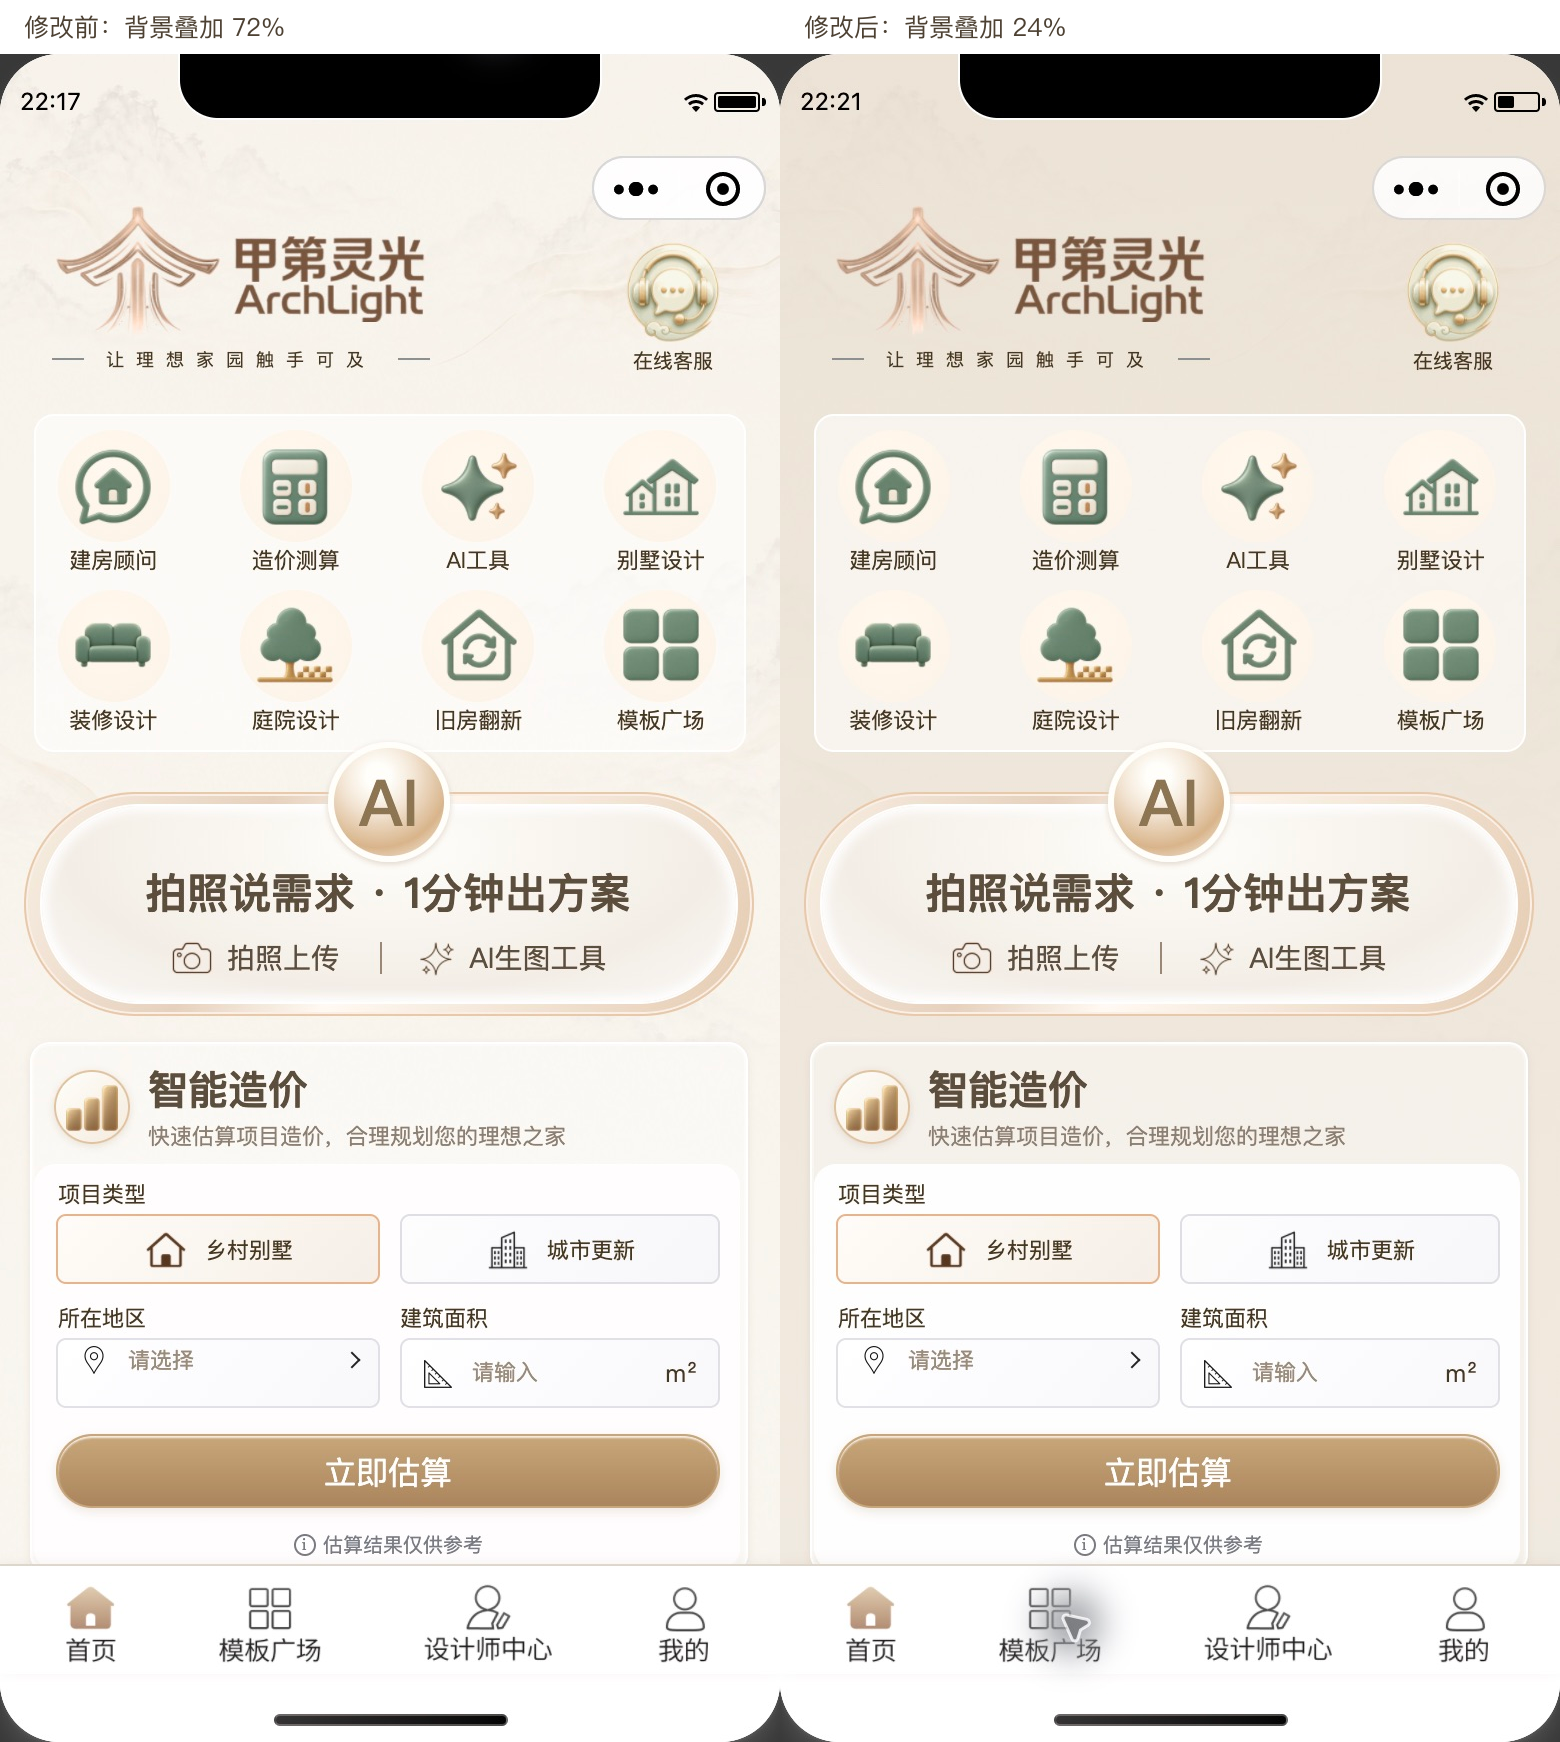
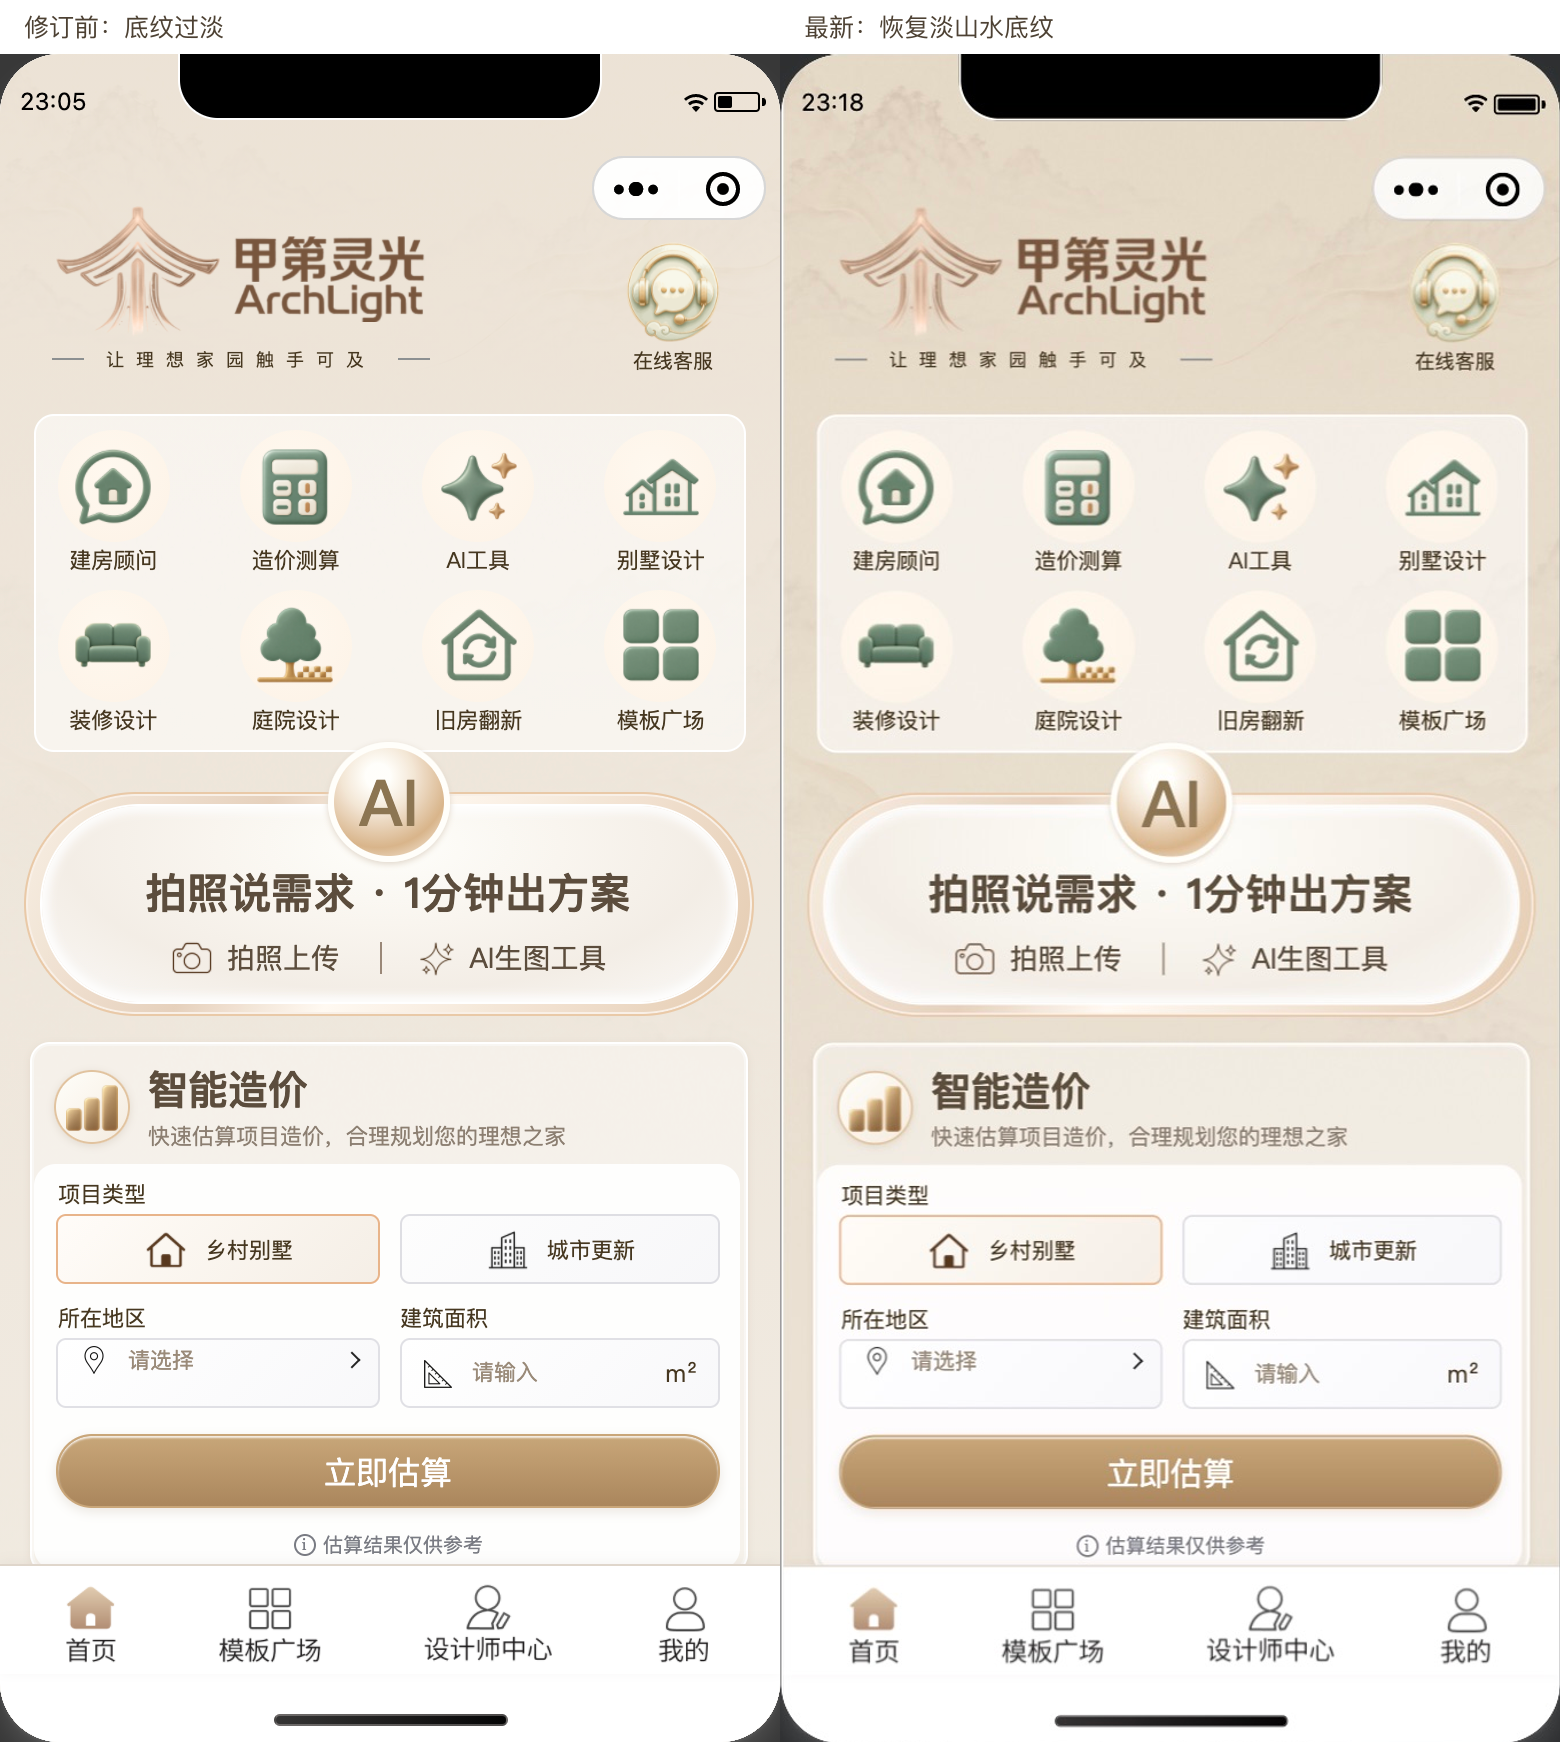
让首页山水底纹可辨认并移除已取消的占位内容
保留暖米色底色和已有高清图标，以乘色混合显示原山水素材。删除签到、邀请好友及建房占位卡片，清除对应样式，并同步当前效果图、运行证据和可回退快照。

Constraint: 当前小程序目录由仓库整体忽略，实际源码已应用并归档到独立交付快照
Rejected: 仅提高米白背景图的常规不透明度 | 会再次冲淡跨页统一的暖米色底色
Tested: 已有首页约束测试先失败后通过；首页造价相关二十七项通过；类型检查及样式编译通过；开发工具游客模式首页零错误且运行树已无取消内容；回退两项测试通过
Tested: 生产依赖审计零漏洞，交付文本扫描未发现密钥；全量八十二项中八十项通过，两个原有客服失败未变化
Not-tested: 正式应用身份及真实设备验收尚未完成
Directive: 山水纹理应清晰可辨但保持淡雅，不以整张叠白冲淡品牌底色
Reversibility: 当前修订前代码与效果图另有备份，应用初始版本可通过带校验的回退脚本恢复

diff --git a/docs/home-reference-20261008/after/miniprogram/pages/index/index.scss b/docs/home-reference-20261008/after/miniprogram/pages/index/index.scss
@@ -1,14 +1,9 @@
 /**index.scss**/
-.building-report-entry {
-  padding: 30rpx; margin: 0 0 32rpx; border: 1rpx solid #cfbda4;
-  border-radius: 24rpx; background: #f9f3e8; color: #71543e;
-  &__title { display: block; font-size: 31rpx; font-weight: 600; line-height: 1.7; }
-  &__copy { display: block; font-size: 24rpx; line-height: 1.8; margin-top: 12rpx; }
-}
 page { overflow: visible; background: #ece4d9; }
 .pages { width: 100vw; min-height: 100vh; background: #ece4d9; overflow-x: hidden; box-sizing: border-box; }
-.home-canvas { position: relative; width: 750rpx; height: 1488.57rpx; color: #473720; font-family: "PingFang SC", sans-serif; background: linear-gradient(180deg, #e6daca, #ece4d9); }
-.home-backdrop { opacity: .24; position: absolute; left: 0; top: 0; width: 100%; height: 100%; }
+.home-canvas { position: relative; isolation: isolate; width: 750rpx; height: 1488.57rpx; color: #473720; font-family: "PingFang SC", sans-serif; background: linear-gradient(180deg, #e6daca, #ece4d9); }
+// 乘色保留暖米色底色，让山水纹理显现，避免米白图片冲淡整页配色。
+.home-backdrop { opacity: .85; mix-blend-mode: multiply; position: absolute; left: 0; top: 0; width: 100%; height: 100%; }
 .home-art-layer { position: absolute; left: 0; top: 105.51rpx; width: 750rpx; height: 1383.06rpx; }
 .home-art-layer > text, .home-art-layer > image, .home-art-layer > view, .home-art-layer > picker { position: absolute; box-sizing: border-box; }
 .brand-symbol { left: 54.51rpx; top: 40.45rpx; width: 158.26rpx; height: 131.89rpx; }
@@ -68,7 +63,6 @@ page { overflow: visible; background: #ece4d9; }
 .quick-estimate::after { border: 0; }
 .info-icon { width: 19rpx; height: 19rpx; border: 1.5rpx solid #787b83; border-radius: 50%; font: 16rpx/19rpx Georgia, serif; text-align: center; }
 .content { position: relative; margin-top: 0; padding: 30rpx 30rpx calc(180rpx + env(safe-area-inset-bottom)); box-sizing: border-box; }
-.home-secondary-actions { display: flex; justify-content: center; gap: 48rpx; margin-bottom: 30rpx; color: #73583f; font-size: 25rpx; }
 
 .case-section {
   margin-bottom: 40rpx;

diff --git a/docs/home-reference-20261008/after/tests/home-smart-service-fixed.test.js b/docs/home-reference-20261008/after/tests/home-smart-service-fixed.test.js
@@ -8,6 +8,6 @@ const hero = markup.slice(markup.indexOf('<view class="home-canvas">'), markup.i
 assert.match(hero, /class="hotspot smart-service-float"[^>]*bindtap="onMascotTap"[^>]*aria-label="在线客服"/);
 assert.doesNotMatch(markup, /smart-service-fixed-layer/);
 assert.match(styles, /\.hotspot\s*{[^}]*position:\s*absolute/);
-assert.match(markup, /pages\/checkin\/checkin\?source=index/);
-assert.match(markup, /pages\/Invitefriends\/Invitefriends\?source=index/);
-console.log('Customer service scrolls with the confirmed hero; checkin and invite remain reachable');
+assert.doesNotMatch(markup, /每日签到|邀请好友|先想清楚怎么住|再决定怎么建|梳理建房方向/);
+assert.doesNotMatch(markup, /home-secondary-actions|building-report-entry|pages\/checkin\/checkin|pages\/Invitefriends\/Invitefriends|pages\/report\/landing/);
+console.log('Customer service remains in the hero; cancelled secondary entries and placeholder copy are absent');

diff --git a/docs/home-reference-20261008/design-qa.md b/docs/home-reference-20261008/design-qa.md
@@ -1,12 +1,12 @@
 # 首页高清复刻与配色校核
 
-日期：2026-10-08。当前应用源码已写入本地小程序，高清效果图为 2559×5532。原始效果图、旧首页源码、旧素材和原开发者工具截图均已备份。
+日期：2026-10-08。当前应用源码已写入本地小程序，高清效果图为 2559×5532。原始效果图、旧首页源码、旧素材和原开发者工具截图均已备份。本次追加修订恢复可辨认山水，并删除首页签到、邀请好友及建房占位区。
 
 ## 结果与范围
 
 本地首页的源码与截图校核通过：八个入口采用独立高清图标；文字、表单、AI 卡片和造价卡片使用原生布局；保留用户指定的原 Logo、客服及底部导航图标。智能造价图标已独立重新生成，用较深金色的三根柱形和原生圆形底盘显示。
 
-以原始参考图的 853×1844 坐标换算到 750rpx，保留主要模块顺序和位置。后续用户要求的旧品牌素材、淡山水、高清图标和统一配色属于明确调整，因此当前确认稿包含这些变化。微信系统状态栏、刘海、胶囊位置和底部安全区随设备变化；不将系统区域描述为逐像素相同。
+以原始参考图的 853×1844 坐标换算到 750rpx，保留主要模块顺序和位置。后续用户要求的旧品牌素材、可辨认的淡山水、高清图标、统一配色和删除占位区属于明确调整，因此当前确认稿包含这些变化。微信系统状态栏、刘海、胶囊位置和底部安全区随设备变化；不将系统区域描述为逐像素相同。
 
 ## 与模板广场的主色比较
 
@@ -18,9 +18,9 @@
 | 估算按钮 | `#C8A679 → #AA865D` | 设计师中心主要按钮相同 | 按钮色值一致 |
 | 模板选中标签 | 首页没有相同标签 | 模板广场为 `#D6B48B → #B88E61` | 标签和主按钮使用不同金色深浅 |
 
-此前首页较浅的主要原因是米白色山水 JPG 以 72% 不透明度覆盖底色。此次降至 24%，使暖米色底色透出，同时山水纹理更淡。不是将山水线条加深。实际高清稿顶部中央取样为 `#ECE3D6`，仍受纹理叠加影响；底色相同不意味着每个局部像素完全相同。
+上一轮以24%常规透明度显示山水图，纹理被过度淡化。本次复用原素材，采用85%不透明度配合 `mix-blend-mode: multiply`，并在首页画布内隔离混合。乘色让山水笔触显现，同时米白图片不再整体冲淡暖米色底色。源码底色仍与模板广场一致。实际高清稿取样记录已更新，纹理部位像素自然与纯底色不同。
 
-配色依据为当前 `pages/template/template.scss`、`pages/distribution/distribution.scss` 和 `pages/index/index.scss`。分离模拟器切换 Tab 后，辅助功能树显示模板广场但可见画面仍保留首页，因此不将该画面冒充模板广场截图。模板广场配色结论依据源码；首页修改前后有真实可见截图对照。
+配色依据为当前 `pages/template/template.scss`、`pages/distribution/distribution.scss` 和 `pages/index/index.scss`。模板广场配色结论依据当前源码；本次首页已通过 CLI 重新编译，并在开发者工具中确认山水可见及0个编译错误，修改前后有真实可见截图对照。
 
 ## 开发者工具与行为证据
 
@@ -35,10 +35,14 @@
 
 已对照原始参考、高清源码渲染和开发者工具实际首页全图，并检查智能造价局部图。当前首页视觉范围未发现待修的 P0/P1/P2。P3 为不同设备系统区和底部安全区差异；造价卡片最下缘靠近固定导航，但输入、按钮及参考说明均可见。
 
+本次删除整块 `home-secondary-actions` 和 `building-report-entry`，同时删除对应无用样式。开发者工具运行树中“每日签到”“邀请好友”“先想清楚怎么住”“再决定怎么建”“梳理建房方向”均不存在，原精选案例仍存在；详见 `内容删除与编译校核.json`。
+
 图片位于 `需求文档/首页视觉方案/20261008-用户确认复刻/视觉校核`：
 
 - `首页全图-参考源码与实际效果对照.png`
 - `首页主色调-修改前后对照.png`
+- `山水底纹-修订前后对照.png`
+- `微信开发者工具-山水恢复后.png`
 - `智能造价图标-局部对照.png`
 - `微信开发者工具-最终首页.png`
 - `微信开发者工具-点击估算跳转.png`
@@ -53,6 +57,6 @@
 
 `miniprogram/` 整目录被当前 Git 仓库忽略。实际源码已应用；本目录保存可审阅差异、before/after 源码快照、高清资产、测试和回退脚本，避免强制纳入整个小程序。
 
-当前确认效果图为 `首页效果图-当前确认版.png`，另保留 `首页效果图-高清确认版.png/.html`、原始参考及 `原首页备份`。`当前首页效果图.json` 记录当前文件和原件路径。
+当前修改稿为 `首页效果图-最新修改稿.png`，同步更新 `首页效果图-当前确认版.png`，另保留 `首页效果图-高清确认版.png/.html`、原始参考及 `原首页备份`。`当前首页效果图.json` 记录当前文件和原件路径。上一轮代码和效果图保存在 `修订前备份-山水恢复与内容精简`，原始备份仍保留。
 
 正式 AppID 编译、真机显示和发布未完成验证。当前报告的通过范围为本地源码及游客模式首页校核。

diff --git a/docs/home-reference-20261008/README.md b/docs/home-reference-20261008/README.md
@@ -46,6 +46,6 @@ node rollback.cjs --target /绝对路径/小程序项目目录 --apply
 
 `design-qa.md` 记录配色、截图对照、开发者工具校核范围、原有客服测试缺口。`visual-evidence/` 保留高清效果图、原始参考、全图与造价局部对照以及实际模拟器截图。
 
-当前背景与模板广场采用相同暖米色；山水图不透明度从72%降至24%，防止米白图层冲淡底色。首页主要按钮沿用设计师中心暖金色。
+当前背景与模板广场采用相同暖米色；复用山水素材，以85%不透明度配合乘色混合，使淡山水可见且不冲淡底色。首页主要按钮沿用设计师中心暖金色。已删除签到、邀请好友及建房占位区，并删除相应无用样式。
 
 相关测试27/27通过，TypeScript与Sass通过；全量82个测试中80个通过，2个原有客服失败已有独立基线复现。正式AppID权限与真机验收未完成。
